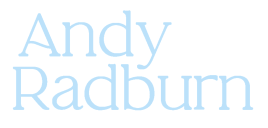
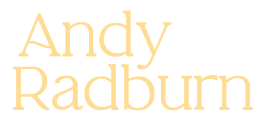
Updated design v1 better colours.

Changed region(s): [[0.0299, 0.0625, 0.9552, 0.875]]

diff --git a/tailwind.config.ts b/tailwind.config.ts
@@ -9,15 +9,14 @@ const config: Config = {
   theme: {
     extend: {
       colors: {
-        surface: "#0f1410",
-        "surface-elevated": "#1a2118",
-        "surface-border": "#2a3328",
-        text: "#f5f0e6",
-        "text-muted": "#a8a098",
-        accent: "#c9a227",
-        "accent-dim": "#8b7320",
-        "accent-warm": "#b87333",
-        "accent-teal": "#2d6a6a",
+        surface: "#01261C",
+        "surface-elevated": "#014034",
+        "surface-border": "#0d5345",
+        text: "#F2DEA0",
+        "text-muted": "#BF9F63",
+        accent: "#58A681",
+        "accent-dim": "#3d8a6a",
+        "accent-warm": "#BF9F63",
       },
       fontFamily: {
         sans: ["Arvo", "Georgia", "serif"],
@@ -26,7 +25,7 @@ const config: Config = {
       backgroundImage: {
         "gradient-radial": "radial-gradient(var(--tw-gradient-stops))",
         "gradient-stage":
-          "linear-gradient(180deg, transparent 0%, rgba(15,20,16,0.6) 50%, rgba(15,20,16,0.95) 100%)",
+          "linear-gradient(180deg, transparent 0%, rgba(1,64,52,0.6) 50%, rgba(1,64,52,0.95) 100%)",
       },
     },
   },

diff --git a/components/Layout.tsx b/components/Layout.tsx
@@ -11,7 +11,7 @@ export function Layout({ children }: { children: React.ReactNode }) {
         id="main-content"
         className="fixed inset-x-0 top-16 flex max-h-[calc(100vh-4rem)] min-h-[calc(100vh-4rem)] flex-col overflow-y-auto overflow-x-hidden bg-surface scroll-mt-16"
       >
-        <div className="relative z-0 min-h-0 flex-1 px-4 py-8 before:absolute before:left-0 before:top-0 before:z-[-1] before:h-full before:w-full before:bg-[url(/assets/img/background.png)] before:bg-[length:105%_100%] before:bg-no-repeat before:opacity-[0.08] before:content-[''] after:absolute after:inset-0 after:z-[-1] after:bg-gradient-stage after:content-[''] sm:px-6 md:px-8">
+        <div className="relative z-0 min-h-0 flex-1 px-4 py-8 sm:px-6 md:px-8">
           <div className="mx-auto max-w-5xl">{children}</div>
         </div>
         <footer className="mt-auto shrink-0 border-t border-surface-border bg-surface/90 py-6 text-center text-sm text-text-muted">

diff --git a/app/layout.tsx b/app/layout.tsx
@@ -39,7 +39,7 @@ export default function RootLayout({
           rel="stylesheet"
           href="https://fonts.googleapis.com/css2?family=Arvo:ital,wght@0,400;0,700;1,400&family=Manrope:wght@400;500;600;700&display=swap"
         />
-        <meta name="theme-color" content="#0f1410" />
+        <meta name="theme-color" content="#014034" />
         <script
           src="https://kit.fontawesome.com/79c31398dc.js"
           crossOrigin="anonymous"

diff --git a/app/globals.css b/app/globals.css
@@ -8,7 +8,7 @@
   }
   body {
     @apply bg-surface text-text antialiased;
-    -webkit-tap-highlight-color: rgba(201, 162, 39, 0.25);
+    -webkit-tap-highlight-color: rgba(88, 166, 129, 0.25);
   }
   a {
     @apply underline decoration-transparent transition-[text-decoration-color] duration-300 hover:decoration-accent;
